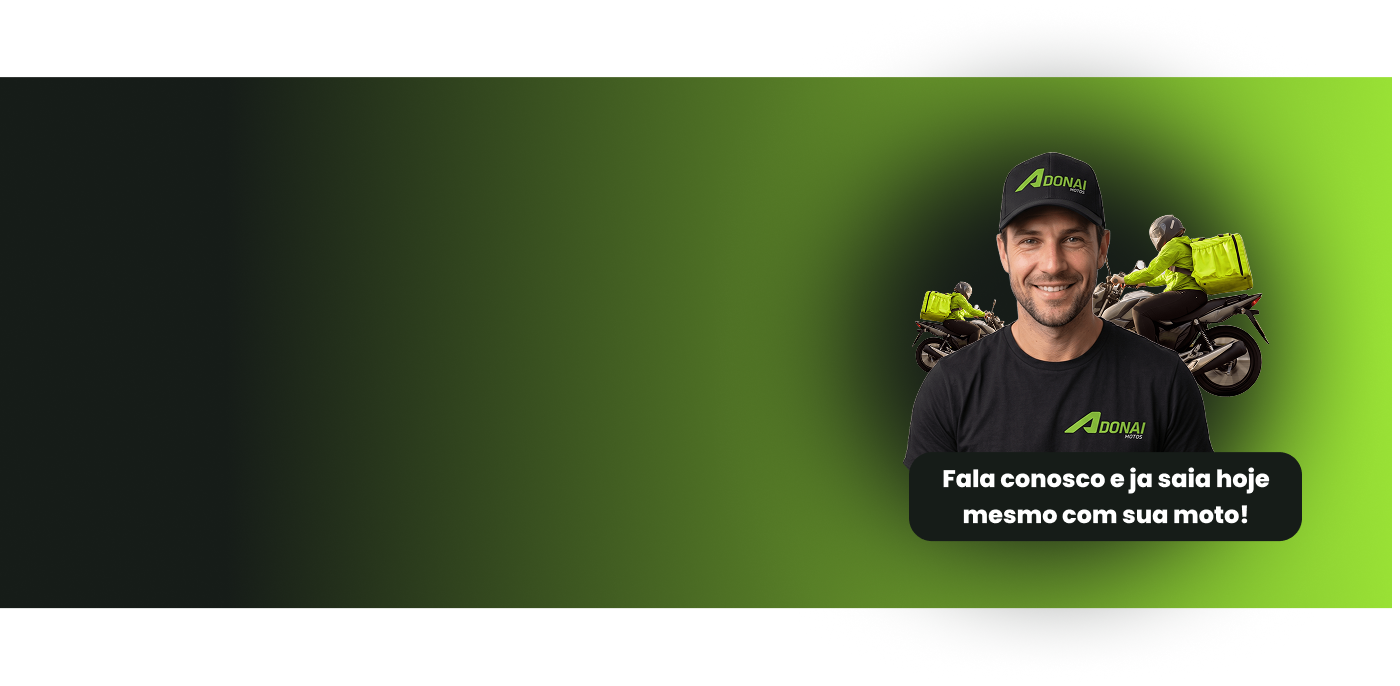
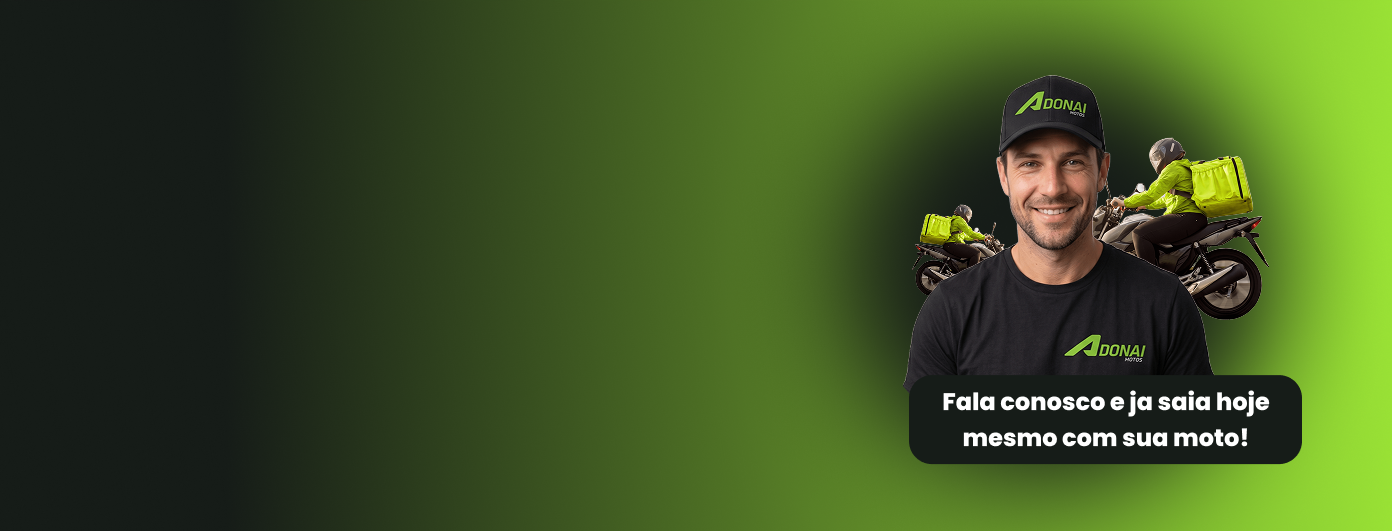
teste

diff --git a/style.css b/style.css
@@ -34,7 +34,6 @@ a { text-decoration: none; color: inherit; }
 
 /* ===================== LOGO ===================== */
 .logo {
-  position: relative;
   display: inline-flex;
   align-items: center;
 }
@@ -43,23 +42,8 @@ a { text-decoration: none; color: inherit; }
   width: auto;
   display: block;
 }
-.logo-motos {
-  position: absolute;
-  right: 2px;
-  bottom: -7px;
-  font-weight: 700;
-  font-size: 7px;
-  letter-spacing: 2.5px;
-  color: var(--white);
-}
-.logo-footer { margin: 0 auto 22px; }
 .logo-footer .logo-img { height: 52px; }
-.logo-footer .logo-motos {
-  right: 4px;
-  bottom: -11px;
-  font-size: 11px;
-  letter-spacing: 4px;
-}
+.logo-footer { margin: 0 auto 22px; }
 
 /* ===================== HEADER / NAV ===================== */
 .site-header { background: var(--dark); }
@@ -147,7 +131,7 @@ a { text-decoration: none; color: inherit; }
 .hero {
   position: relative;
   overflow: hidden;
-  aspect-ratio: 1400 / 686;
+  aspect-ratio: 1392 / 531;
   background: var(--dark);
 }
 
@@ -556,8 +540,17 @@ body.hero-ready .hero-image.hero-anim { opacity: 1; transform: scale(1); }
 
 @media (max-width: 720px) {
   .container { padding: 0 24px; }
-  .hero { aspect-ratio: auto; min-height: 560px; }
-  .hero-inner { padding-bottom: 30px; }
+  .hero { aspect-ratio: auto; min-height: unset; }
+  .hero-inner { padding-bottom: 24px; position: relative; z-index: 2; }
+  .hero-image {
+    position: relative;
+    inset: auto;
+    width: 100%;
+    height: auto;
+    margin-top: 24px;
+    object-fit: contain;
+    object-position: center;
+  }
   .hero h1 { font-size: 30px; }
   .plano-card { padding: 34px 24px 40px; }
   .plano-card .preco { font-size: 42px; }

diff --git a/index.html b/index.html
@@ -20,8 +20,7 @@
 <header class="site-header">
   <div class="container header-inner">
     <a href="#home" class="logo" aria-label="Adonai Motos">
-      <img class="logo-img" src="assets/logo.png" alt="Adonai">
-      <span class="logo-motos">MOTOS</span>
+      <img class="logo-img" src="assets/logo.png" alt="Adonai Motos">
     </a>
     <nav class="main-nav">
       <a href="#home">Home</a>
@@ -178,8 +177,7 @@
 <footer class="site-footer">
   <div class="container reveal-stagger">
     <a href="#home" class="logo logo-footer" aria-label="Adonai Motos">
-      <img class="logo-img" src="assets/logo.png" alt="Adonai">
-      <span class="logo-motos">MOTOS</span>
+      <img class="logo-img" src="assets/logo.png" alt="Adonai Motos">
     </a>
     <p class="footer-tagline">Sua moto. Seu trabalho. Sua conquista.</p>
     <p class="footer-sub">Motos, planos e suporte para você seguir em frente.</p>
